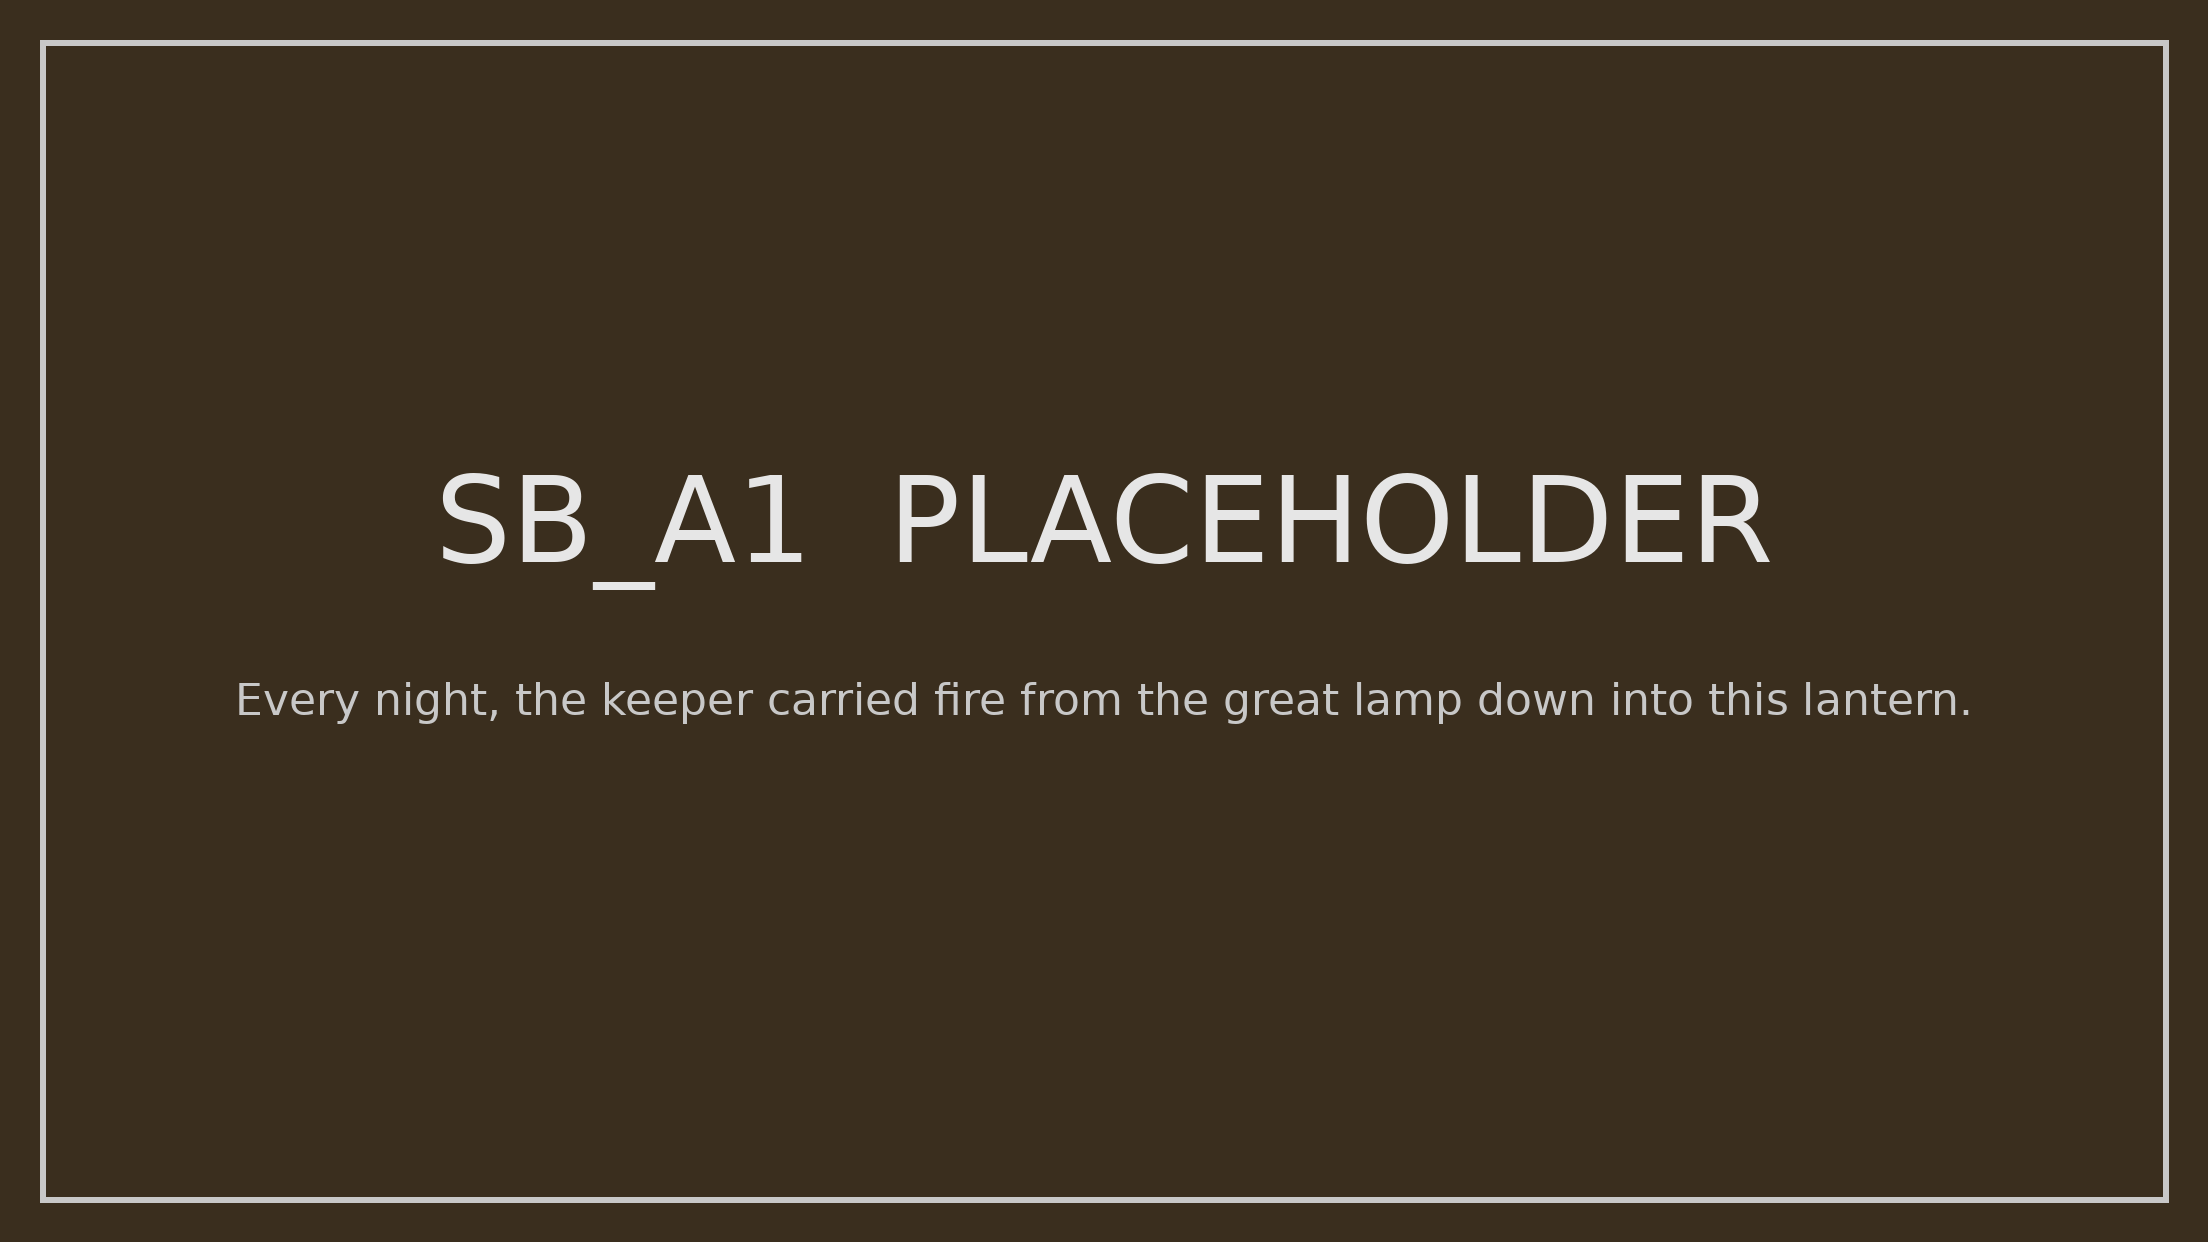
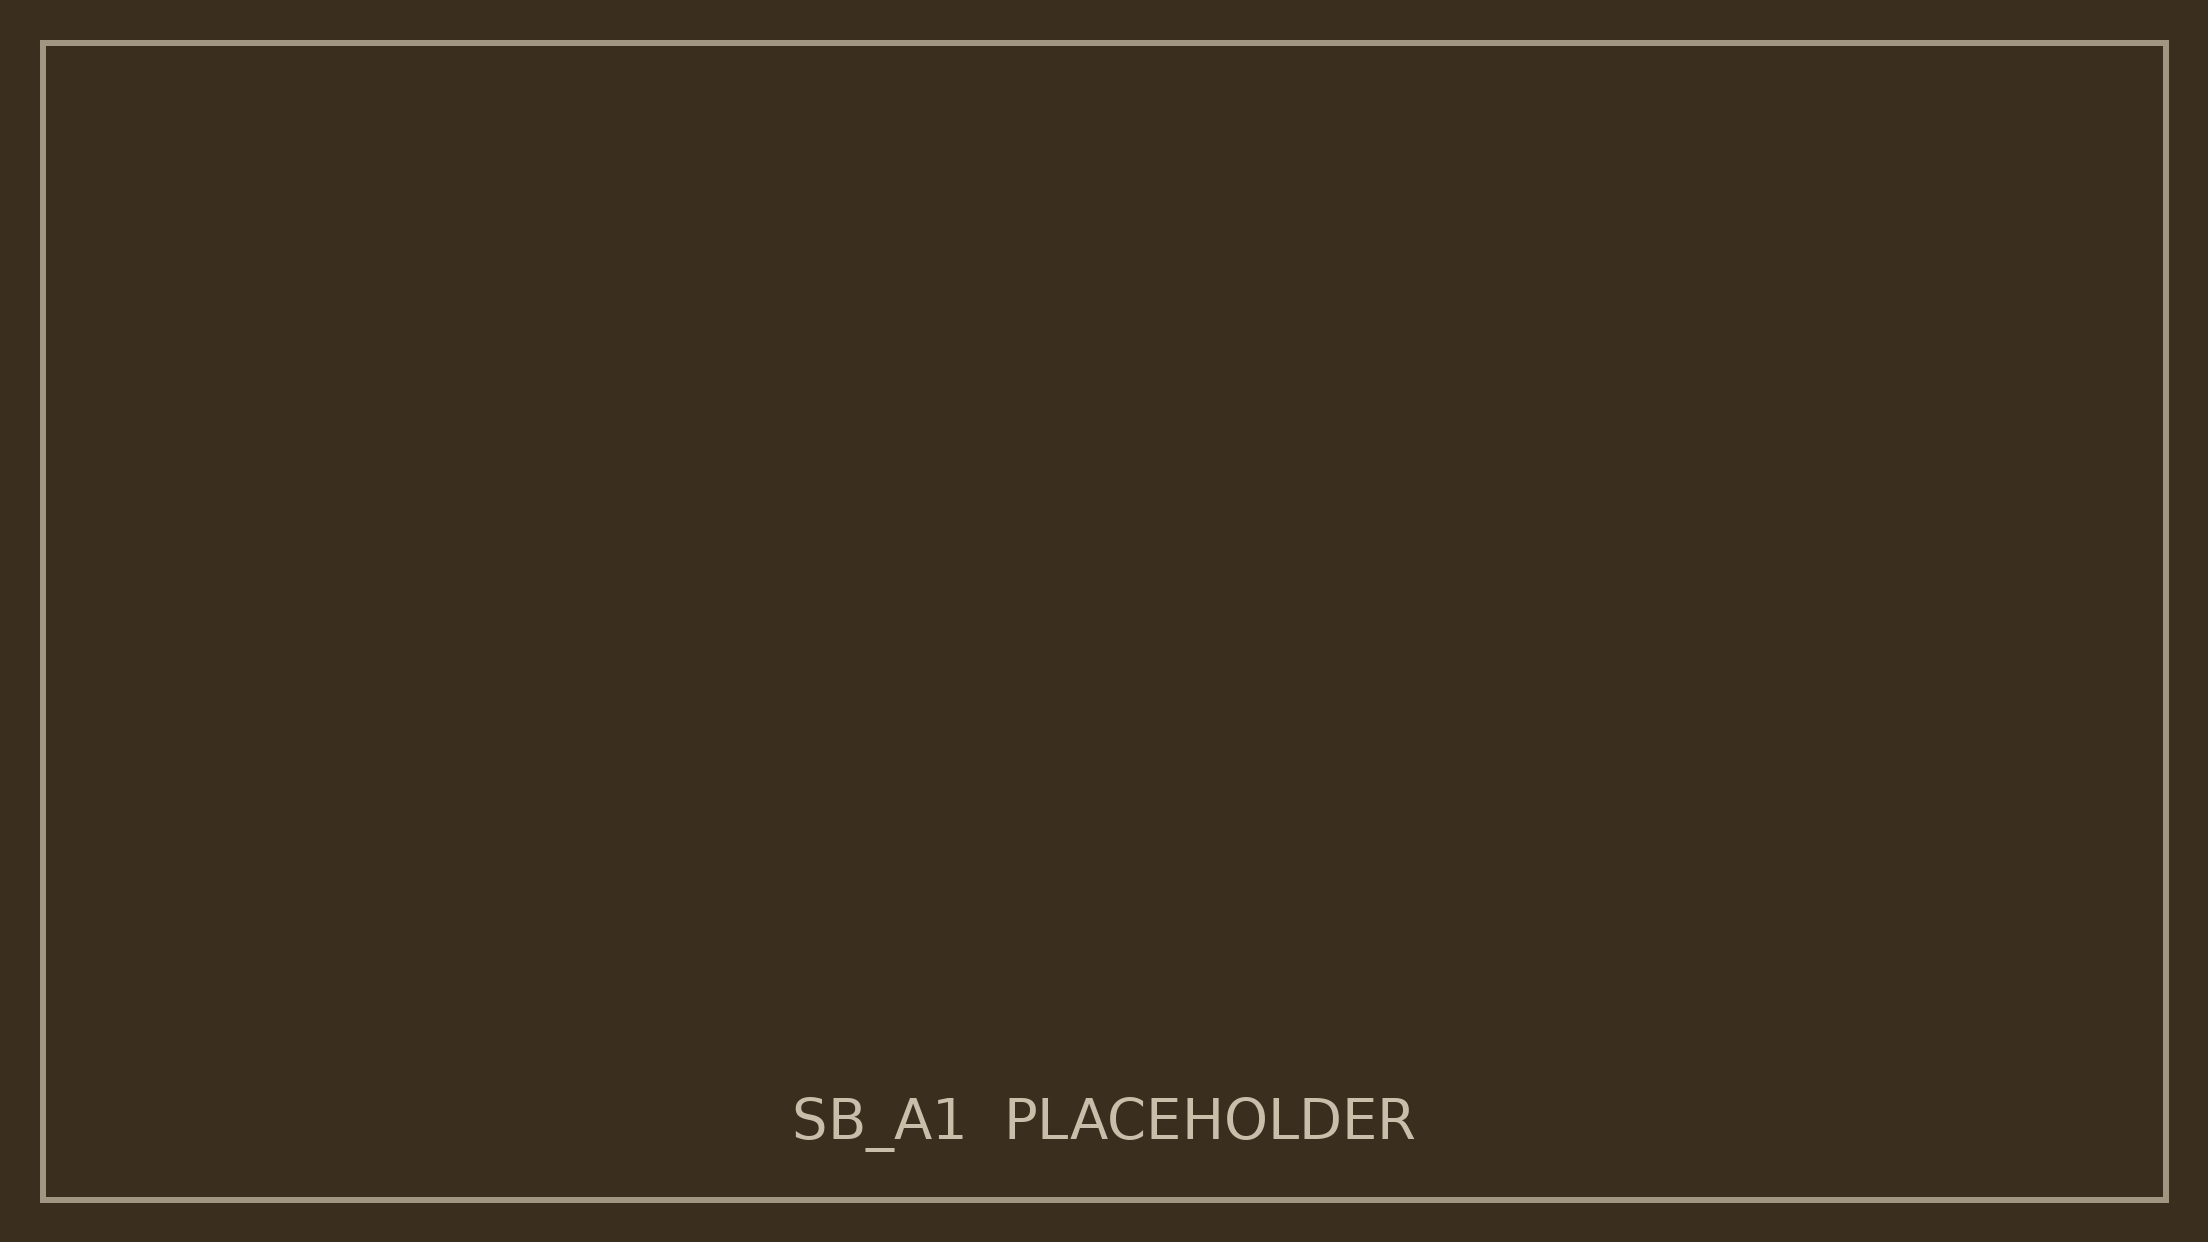
Codex task: storyboard A/B interim art; caption-free A placeholders; Codex progress notes
Claude-Session: https://claude.ai/code/session_01MGSCAVnQPAUqBiCn5fEB7X

diff --git a/TechnicalArt/MENU_UNITY_PROGRESS.md b/TechnicalArt/MENU_UNITY_PROGRESS.md
@@ -313,3 +313,9 @@
[2 lines of base64/hex data omitted]
 - Editor returned to clean Edit Mode on `00_StartMenu`. Console check: 0 errors; warnings were existing Unity AI MCP/account warnings and a TMP obsolete-property warning in `StoryboardPlayer`. Unrelated font/package changes and the temporary Recorder settings asset remain uncommitted and excluded.
+## 2026-11-11 — Lantern pickup → Storyboard A → EndCard B (placeholders, Codex)
+
+- Added placeholder Storyboard A1–A4 and B1–B5 data, the W lantern pickup and hand-lantern reveal, Home-overlay Story A with player lock, the temporary far-right end trigger, and Storyboard B on `03_EndCard` with Back to Menu / Quit buttons. Back to Menu is serialized and resets `HasLantern` and `MemoryLayer`. Normal B completion leaves B5 and its caption visible under the buttons; Esc skips to the buttons over black.
+- Completed two consecutive Play Mode routes: Start Menu → Prologue → Home → W pickup → A → temporary end trigger → B → Back to Menu. The second route started from the returned Start Menu. State readback after return: `HasLantern=false`, `MemoryLayer=false`. Verified B5 and the two visible buttons.
+- Captures: `ForDesignScreenshot/2026-11-11_Lantern_StoryA_EndCard/{pickup_prompt.png,A1.png,E_hint.png,B1.png,B5_buttons.png}` (1920×1080). Recorder clips were not made. The placeholder PNGs include baked caption text, so the live caption appears twice until final art replaces them.
+- Unity commit `75aec3549a749ca7e9058a9523869dc147ee5e6f` (`Lantern pickup + Storyboard A + EndCard B (placeholders)`) pushed to `main`; remote `origin/main` verified at the commit.

diff --git a/CommandForAgentToInitialRun/2026-11-11_Unity_StoryAB_InterimArt.md b/CommandForAgentToInitialRun/2026-11-11_Unity_StoryAB_InterimArt.md
@@ -1,0 +1,15 @@
+# 2026-11-11 Unity — Storyboard A/B: interim art + caption-free placeholders
+
+Follow-up to `2026-11-11_Unity_Lantern_Pickup_StoryA_EndCard_B.md` (Unity `75aec35`). `git pull` the design repo first.
+
+## Inputs (design repo, all 2208×1242)
+- Interim real art: `TechArtAsset/Storyboard/LanternOrigin_A/SB_A4.png`; `TechArtAsset/Storyboard/Ending_B/SB_B1.png` … `SB_B5.png`.
+- Placeholders **regenerated without caption text** (the old ones had the caption baked in → it showed twice): `TechArtAsset/Storyboard/LanternOrigin_A/placeholder/SB_A1..A3_placeholder.png`.
+
+## Steps
+1. Copy the six real images into `Assets/_Project/Art/Storyboard/LanternOrigin_A/` and `…/Ending_B/` (same names; keep the placeholder files). Re-copy the three A1–A3 placeholders over the old ones (same names/GUIDs). Import like the prologue art.
+2. Point `SB_LanternOrigin_A.asset` frame A4 and `SB_Ending_B.asset` frames B1–B5 to the real sprites; A1–A3 stay on the placeholders.
+3. Captions: keep the P1-default rect for now **except** B5 — put B5's caption in the open sky upper half (approx. box 0.30–0.70 / 0.70–0.88, centred), since the image leaves that space for the title line. Same inside-the-box check as the prologue (no debug log left on).
+4. Play Mode once through A (after pickup) and B (EndCard). Screenshots → `ForDesignScreenshot/2026-11-11_Lantern_StoryA_EndCard/A4_interim.png`, `B1_interim.png` … `B5_interim.png`. If possible, record A and B with Unity Recorder into the same folder (they play without input).
+5. **Before finishing: unload every extra scene; leave only `00_StartMenu` open** (AGENTS.md rule). Say so in the report.
+6. Commit "Storyboard A/B interim art", push, note hash in `TechnicalArt/MENU_UNITY_PROGRESS.md`. Also commit the updated `AGENTS.md`.

diff --git a/DEMO_IMPLEMENTATION_PLAN.md b/DEMO_IMPLEMENTATION_PLAN.md
@@ -116,8 +116,8 @@ Unity 6.3 LTS · 2D URP · 1920×1080，PPU 100（角色 .psb 为 2× 源，PPU 
 - ☐ 色块搭 Home（楼下、断梯、阁楼）
 - ☐ LanternSwitch + 冷暖光照 + WorldLayerObject
 - ☑ Core_Persistent + 叠加关卡（GameState / AudioManager / LevelLoader，11-08）
-- ◐ 对话、拾灯笼（拾灯笼在 11-11 任务里；对话待做）
-- ◐ StoryboardPlayer：☑ P 序章 + Menu → 序章 → Home（每页可设字幕位置 / 颜色 / underlay，11-08；P2–P4 正式图 + 每页字幕框，11-11）；◐ A、B + EndCard（占位版 Codex 任务 `2026-11-11_Unity_Lantern_Pickup_StoryA_EndCard_B.md`）
+- ◐ 对话、☑ 拾灯笼（拾灯笼 + W 拾取 + E 提示验证于 11-11；对话待做）
+- ☑ StoryboardPlayer：☑ P 序章 + Menu → 序章 → Home（每页可设字幕位置 / 颜色 / underlay，11-08；P2–P4 正式图 + 每页字幕框，11-11）；☑ A、B + EndCard（占位版，拾取 / Home 叠加 / EndCard 按钮与状态重置于 11-11 验证）
 - ☑ Build Settings 去掉 02_Harbor（11-07）
 - ☐ 试玩 2–3 人并修改
 - ☐ 打包 Windows

diff --git a/CommandForAgentToInitialRun/2026-11-11_Unity_Lantern_Pickup_StoryA_EndCard_B.md b/CommandForAgentToInitialRun/2026-11-11_Unity_Lantern_Pickup_StoryA_EndCard_B.md
@@ -1,3 +1,5 @@
+> **Done (Unity `75aec35`).** The interim-art note (step −1) and the scene-cleanup step were added after Codex ran it; they are carried out in `2026-11-11_Unity_StoryAB_InterimArt.md`.
+
 # 2026-11-11 Unity — Lantern pickup → Storyboard A; end trigger → 03_EndCard → Storyboard B (placeholders)
 
 Goal: the Demo loop plays start-to-end with placeholders: Menu → Prologue → Home → pick up lantern → **Storyboard A** → "E" hint → (temporary) end trigger → **03_EndCard: Storyboard B** → "To be continued…" → Back to Menu. Real A/B art and the attic/memory layer come later with the same names.
